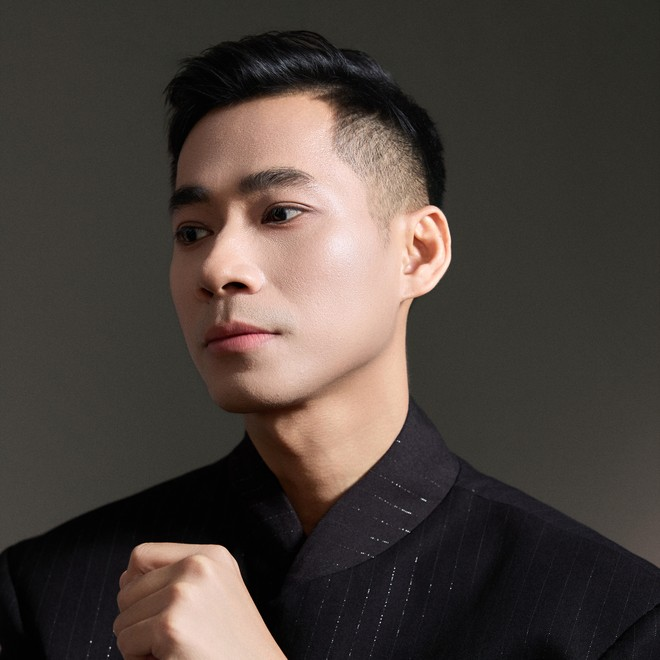
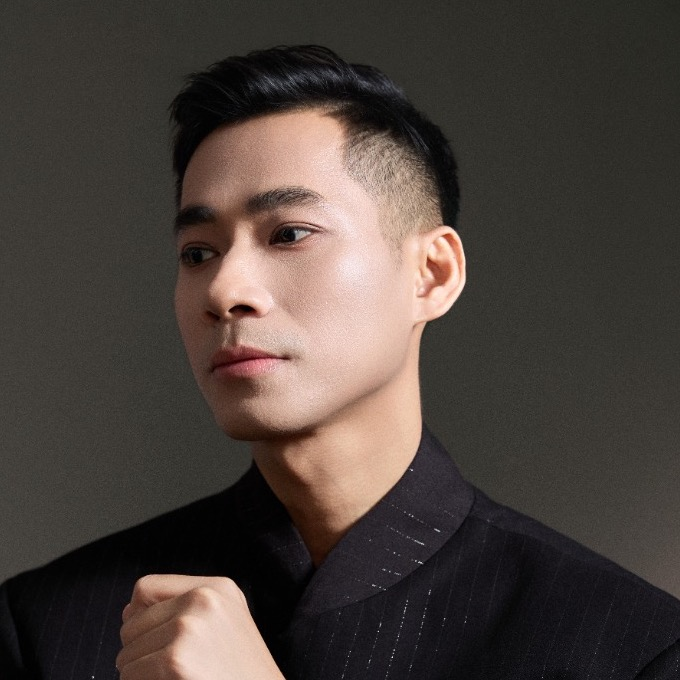
feat(founder): integrate founder perspective and credibility alignment across EN and VI

diff --git a/vi/about.html b/vi/about.html
@@ -103,8 +103,35 @@
     </div>
   </section>
 
+  <!-- GÓC NHÌN NHÀ SÁNG LẬP -->
+  <section class="section founder-section" style="border-top:1px solid var(--v4-line);">
+    <div class="wrap editorial-grid" style="align-items:start;">
+      <div class="founder-portrait-col">
+        <div class="founder-portrait-frame" style="max-width:440px; margin-bottom:20px;">
+          <img src="../images/alton-nguyen-founder.jpg" alt="Alton Nguyen, Nhà sáng lập và Giám đốc Điều hành Brand Here" width="680" height="850" loading="lazy" style="width:100%; height:auto; aspect-ratio:4/5; object-fit:cover; border-radius:2px; display:block; box-shadow:0 12px 36px rgba(0,0,0,0.08);">
+        </div>
+      </div>
+      <div class="prose founder-prose">
+        <div class="section-label">Góc nhìn Nhà sáng lập</div>
+        <h2 style="margin:12px 0 24px;">TRẢI NGHIỆM TỪ CẢ HAI PHÍA<br><span class="text-red">CỦA BÀN LÀM VIỆC.</span></h2>
+        <div style="font:600 13px/1.4 var(--font-body); letter-spacing:0.12em; text-transform:uppercase; color:var(--v4-carbon); margin-bottom:20px;">
+          ALTON NGUYEN<br>
+          <span style="font-weight:400; color:#7a746e; font-size:12px; letter-spacing:0.08em;">Nhà sáng lập &amp; Giám đốc Điều hành</span>
+        </div>
+        <p>Brand Here được Alton Nguyen sáng lập từ nền tảng marketing communications và kinh nghiệm làm việc với các thương hiệu đa quốc gia.</p>
+        <p>Sau đó, anh chuyển sang phía doanh nghiệp và tích lũy thêm hơn một thập kỷ kinh nghiệm trong marketing, chiến lược thương mại và quản lý kinh doanh tại các tập đoàn healthcare đa quốc gia.</p>
+        <p>Trải nghiệm từ cả hai phía đã định hình cách Brand Here làm việc hôm nay: hiểu brief từ góc nhìn agency, hiểu áp lực kinh doanh từ phía client, và hiểu thực tế vận hành cần thiết để biến chiến lược thành thực thi.</p>
+        <p>Năng lực của Brand Here đã mở rộng.<br>Nguyên tắc thì không thay đổi.</p>
+        <blockquote style="margin:24px 0; padding-left:18px; border-left:2px solid var(--v4-red); font:italic 400 16px/1.6 var(--font-display); color:var(--v4-carbon);">
+          BẮT ĐẦU TỪ BÀI TOÁN.<br>SAU ĐÓ MỚI QUYẾT ĐỊNH ĐIỀU GÌ CẦN THAY ĐỔI.
+        </blockquote>
+        <p style="font-size:13px; line-height:1.6; color:#7a746e; margin-top:24px; padding-top:16px; border-top:1px solid var(--v4-line);">Kinh nghiệm nghề nghiệp bao gồm các tập đoàn y tế và dược phẩm đa quốc gia như Johnson &amp; Johnson, Otsuka Pharmaceutical và Teva Pharmaceuticals.</p>
+      </div>
+    </div>
+  </section>
+
   <!-- OPERATOR CREDIBILITY & BLUE-CHIP EXPERIENCE -->
-  <section class="section">
+  <section class="section alt">
     <div class="wrap editorial-grid">
       <div>
         <div class="section-label">Góc nhìn Người Vận hành</div>

diff --git a/about.html b/about.html
@@ -103,8 +103,35 @@
     </div>
   </section>
 
+  <!-- FOUNDER PERSPECTIVE -->
+  <section class="section founder-section" style="border-top:1px solid var(--v4-line);">
+    <div class="wrap editorial-grid" style="align-items:start;">
+      <div class="founder-portrait-col">
+        <div class="founder-portrait-frame" style="max-width:440px; margin-bottom:20px;">
+          <img src="images/alton-nguyen-founder.jpg" alt="Alton Nguyen, Founder and Managing Director of Brand Here" width="680" height="850" loading="lazy" style="width:100%; height:auto; aspect-ratio:4/5; object-fit:cover; border-radius:2px; display:block; box-shadow:0 12px 36px rgba(0,0,0,0.08);">
+        </div>
+      </div>
+      <div class="prose founder-prose">
+        <div class="section-label">Founder Perspective</div>
+        <h2 style="margin:12px 0 24px;">BUILT ON BOTH SIDES<br><span class="text-red">OF THE TABLE.</span></h2>
+        <div style="font:600 13px/1.4 var(--font-body); letter-spacing:0.12em; text-transform:uppercase; color:var(--v4-carbon); margin-bottom:20px;">
+          ALTON NGUYEN<br>
+          <span style="font-weight:400; color:#7a746e; font-size:12px; letter-spacing:0.08em;">Founder &amp; Managing Director</span>
+        </div>
+        <p>Brand Here was founded by Alton Nguyen after beginning his career in marketing communications and working with multinational brands.</p>
+        <p>He later moved client-side, building more than a decade of experience across marketing, commercial strategy and business leadership within multinational healthcare organisations.</p>
+        <p>That experience shaped how Brand Here works today: understanding the brief from the agency side, the business pressure behind it from the client side, and the operating reality required to turn strategy into execution.</p>
+        <p>Brand Here's capabilities have expanded.<br>The principle has not.</p>
+        <blockquote style="margin:24px 0; padding-left:18px; border-left:2px solid var(--v4-red); font:italic 400 16px/1.6 var(--font-display); color:var(--v4-carbon);">
+          START WITH THE PROBLEM.<br>THEN DECIDE WHAT NEEDS TO CHANGE.
+        </blockquote>
+        <p style="font-size:13px; line-height:1.6; color:#7a746e; margin-top:24px; padding-top:16px; border-top:1px solid var(--v4-line);">Professional experience includes multinational healthcare organisations such as Johnson &amp; Johnson, Otsuka Pharmaceutical and Teva Pharmaceuticals.</p>
+      </div>
+    </div>
+  </section>
+
   <!-- OPERATOR CREDIBILITY -->
-  <section class="section">
+  <section class="section alt">
     <div class="wrap editorial-grid">
       <div>
         <div class="section-label">Operator Perspective</div>

diff --git a/vi/experts.html b/vi/experts.html
@@ -93,6 +93,24 @@
       <p class="problem-picker-hint" data-hint-default="Chọn vấn đề bạn cần giải quyết — chuyên gia phù hợp sẽ được làm nổi bật bên dưới." data-hint-active="Đã làm nổi bật bên dưới.">Chọn vấn đề bạn cần giải quyết — chuyên gia phù hợp sẽ được làm nổi bật bên dưới.</p>
 
       <div class="expert-profile-list">
+        <article class="expert-profile expert-card expert-profile--lead" style="border: 1px solid var(--v4-line-strong); background: rgba(255,255,255,0.85);">
+          <div class="expert-profile-portrait">
+            <img src="../images/alton-portrait.jpg" alt="Alton Nguyen, Nhà sáng lập và Giám đốc Điều hành Brand Here" width="680" height="680" loading="lazy">
+          </div>
+          <div class="expert-profile-content">
+            <div class="expert-role-label" style="color:var(--v4-red); font-weight:700;">Đầu mối Chiến lược Trách nhiệm</div>
+            <h3>Alton Nguyen</h3>
+            <div class="expert-title">Nhà sáng lập &amp; Giám đốc Điều hành</div>
+            <p class="expert-teaser">Marketing · Chiến lược Thương mại · Thích ứng Doanh nghiệp · Life Sciences</p>
+            <div class="expert-toggle" role="button" tabindex="0" aria-expanded="false" aria-controls="expert-alton-nguyen">
+              <span class="expert-more">Xem hồ sơ +</span>
+            </div>
+            <div class="expert-bio" id="expert-alton-nguyen">
+              <p>Nhà sáng lập Brand Here với kinh nghiệm trải dài từ agency, marketing tại tập đoàn đa quốc gia đến chiến lược thương mại và quản lý doanh nghiệp.</p>
+              <p>Anh trực tiếp dẫn dắt định hướng chiến lược, quan hệ đối tác và chất lượng toàn diện của dự án, đồng thời kết nối mạng lưới chuyên gia phù hợp khi bài toán đòi hỏi chuyên môn sâu.</p>
+            </div>
+          </div>
+        </article>
 
         <article class="expert-profile expert-card expert-profile--governance">
           <div class="expert-profile-portrait">

diff --git a/experts.html b/experts.html
@@ -114,6 +114,25 @@
 
 
       <div class="expert-profile-list">
+        <article class="expert-profile expert-card expert-profile--lead" style="border: 1px solid var(--v4-line-strong); background: rgba(255,255,255,0.85);">
+          <div class="expert-profile-portrait">
+            <img src="images/alton-portrait.jpg" alt="Alton Nguyen, Founder and Managing Director of Brand Here" width="680" height="680" loading="lazy">
+          </div>
+          <div class="expert-profile-content">
+            <div class="expert-role-label" style="color:var(--v4-red); font-weight:700;">Accountable Strategic Lead</div>
+            <h3>Alton Nguyen</h3>
+            <div class="expert-title">Founder &amp; Managing Director</div>
+            <p class="expert-teaser">Marketing · Commercial Strategy · Business Adaptation · Life Sciences</p>
+            <div class="expert-toggle" role="button" tabindex="0" aria-expanded="false" aria-controls="expert-alton-nguyen">
+              <span class="expert-more">View profile +</span>
+            </div>
+            <div class="expert-bio" id="expert-alton-nguyen">
+              <p>Founder of Brand Here with experience spanning agency leadership, multinational marketing, commercial strategy and business management.</p>
+              <p>He leads strategy, client relationships and the quality of every engagement, assembling proven practitioners around the problem when specialist depth is required.</p>
+            </div>
+          </div>
+        </article>
+
         <article class="expert-profile expert-card expert-profile--technology">
           <div class="expert-profile-portrait">
             <img src="images/la-pham-portrait.jpg" alt="La Pham, Technical Lead partnering with Brand Here" width="392" height="392" loading="lazy">

diff --git a/vi/life-sciences.html b/vi/life-sciences.html
@@ -200,6 +200,20 @@
     </div>
   </section>
 
+  <!-- KINH NGHIỆM LIFE SCIENCES TỪ NHÀ SÁNG LẬP -->
+  <section class="section" style="border-top:1px solid var(--v4-line); padding: clamp(48px, 6vw, 72px) 0;">
+    <div class="wrap editorial-grid" style="align-items:center;">
+      <div>
+        <div class="section-label">Năng lực Điều hành</div>
+        <h2 style="font-size:clamp(30px, 3.5vw, 44px); margin:12px 0 16px;">KINH NGHIỆM TỪ<br><span class="text-red">NHÀ SÁNG LẬP.</span></h2>
+      </div>
+      <div class="prose">
+        <p>Góc nhìn Life Sciences của Brand Here được hình thành từ kinh nghiệm thực tế trong marketing dược phẩm, commercialization và vận hành liên phòng ban tại các tập đoàn đa quốc gia.</p>
+        <p style="font-size:13px; line-height:1.6; color:#7a746e; margin-top:16px; padding-top:14px; border-top:1px solid var(--v4-line);">Kinh nghiệm nghề nghiệp bao gồm các tập đoàn y tế và dược phẩm đa quốc gia như Johnson &amp; Johnson, Otsuka Pharmaceutical và Teva Pharmaceuticals.</p>
+      </div>
+    </div>
+  </section>
+
   <!-- CLOSING CTA -->
   <section class="final-cta final-cta--light">
     <div class="wrap">

diff --git a/life-sciences.html b/life-sciences.html
@@ -200,6 +200,20 @@
     </div>
   </section>
 
+  <!-- FOUNDER-LED LIFE SCIENCES EXPERIENCE -->
+  <section class="section" style="border-top:1px solid var(--v4-line); padding: clamp(48px, 6vw, 72px) 0;">
+    <div class="wrap editorial-grid" style="align-items:center;">
+      <div>
+        <div class="section-label">Strategic Leadership</div>
+        <h2 style="font-size:clamp(30px, 3.5vw, 44px); margin:12px 0 16px;">FOUNDER-LED<br><span class="text-red">HEALTHCARE DEPTH.</span></h2>
+      </div>
+      <div class="prose">
+        <p>Brand Here's Life Sciences perspective is informed by leadership experience across multinational pharmaceutical marketing, commercialization and cross-functional business operations.</p>
+        <p style="font-size:13px; line-height:1.6; color:#7a746e; margin-top:16px; padding-top:14px; border-top:1px solid var(--v4-line);">Professional experience includes multinational healthcare organisations such as Johnson &amp; Johnson, Otsuka Pharmaceutical and Teva Pharmaceuticals.</p>
+      </div>
+    </div>
+  </section>
+
   <!-- CLOSING CTA -->
   <section class="final-cta final-cta--light">
     <div class="wrap">
